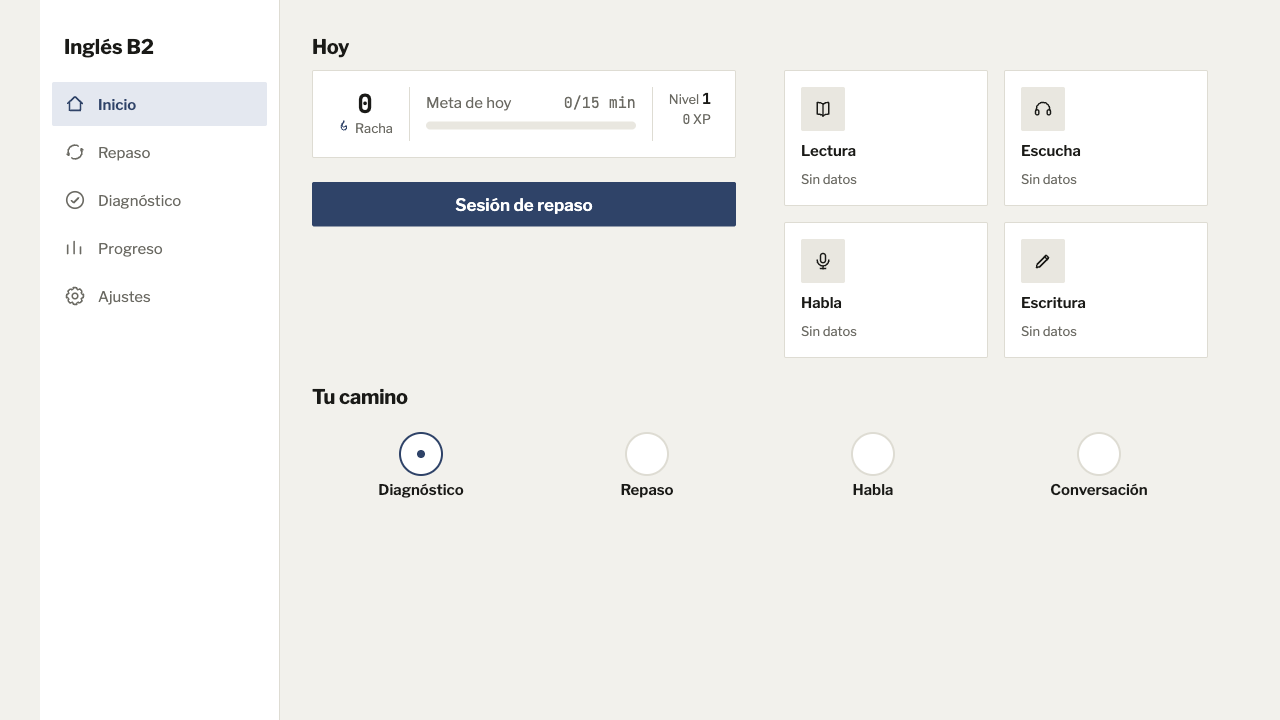
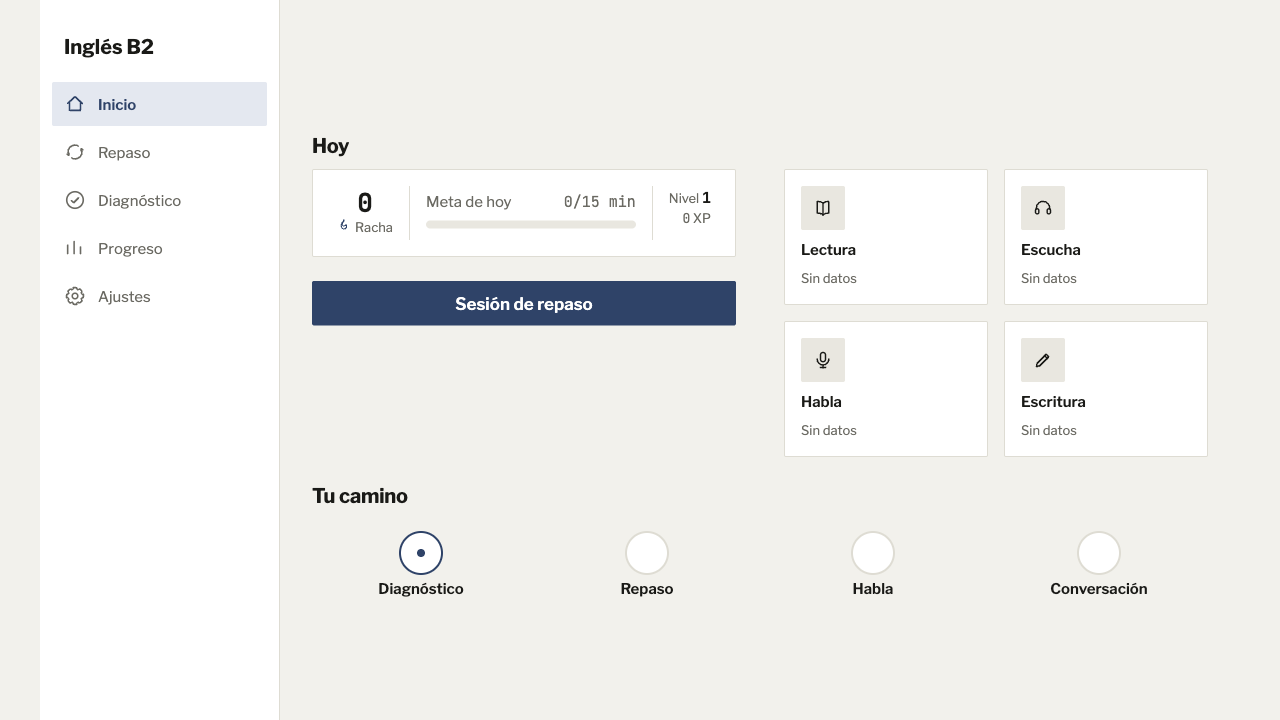
Inicio: centra verticalmente el contenido en laptop para no dejarlo vacío
El rediseño anterior (ca89c88) ya cumplía "sin scroll" en 1440x900/1280x720,
pero dejaba casi la mitad del viewport vacía debajo de "Tu camino" -- cumplía
el requisito a la letra pero no en espíritu (no se ve profesional, se ve a
medio terminar). Centra el bloque completo (título + cuerpo) en el alto
disponible solo en el breakpoint de laptop (>=1100px); en móvil no hace falta,
ya llena el alto de sobra. Verificado con Playwright: overflow = 0 en los 4
tamaños (390x844, 375x667, 1280x720, 1440x900), claro y oscuro, capturas
actualizadas en docs/design-review/despues/.

diff --git a/css/styles.css b/css/styles.css
@@ -995,6 +995,17 @@ button.tarjeta-habilidad:active {
     margin-right: auto;
   }
 
+  /* Con 100dvh completo y solo 2 filas de contenido, Inicio dejaba medio viewport vacío
+     abajo de "Tu camino" en laptop -- cumplía "sin scroll" pero se veía a medio llenar.
+     Centrar el bloque completo (título + cuerpo) en el alto disponible lee como una
+     composición deliberada (el "Hoy" de una bitácora), no como una página cortada a la
+     mitad; en móvil no hace falta, ya llena el alto de sobra. */
+  main:has(> .pantalla-vista > .inicio-cuerpo) {
+    display: flex;
+    flex-direction: column;
+    justify-content: center;
+  }
+
   /* Inicio en laptop: meta/CTA a la izquierda, habilidades 2x2 a la derecha, "Tu camino"
      horizontal abajo a todo el ancho (sigue en fila, igual que en móvil). */
   .inicio-cuerpo {
